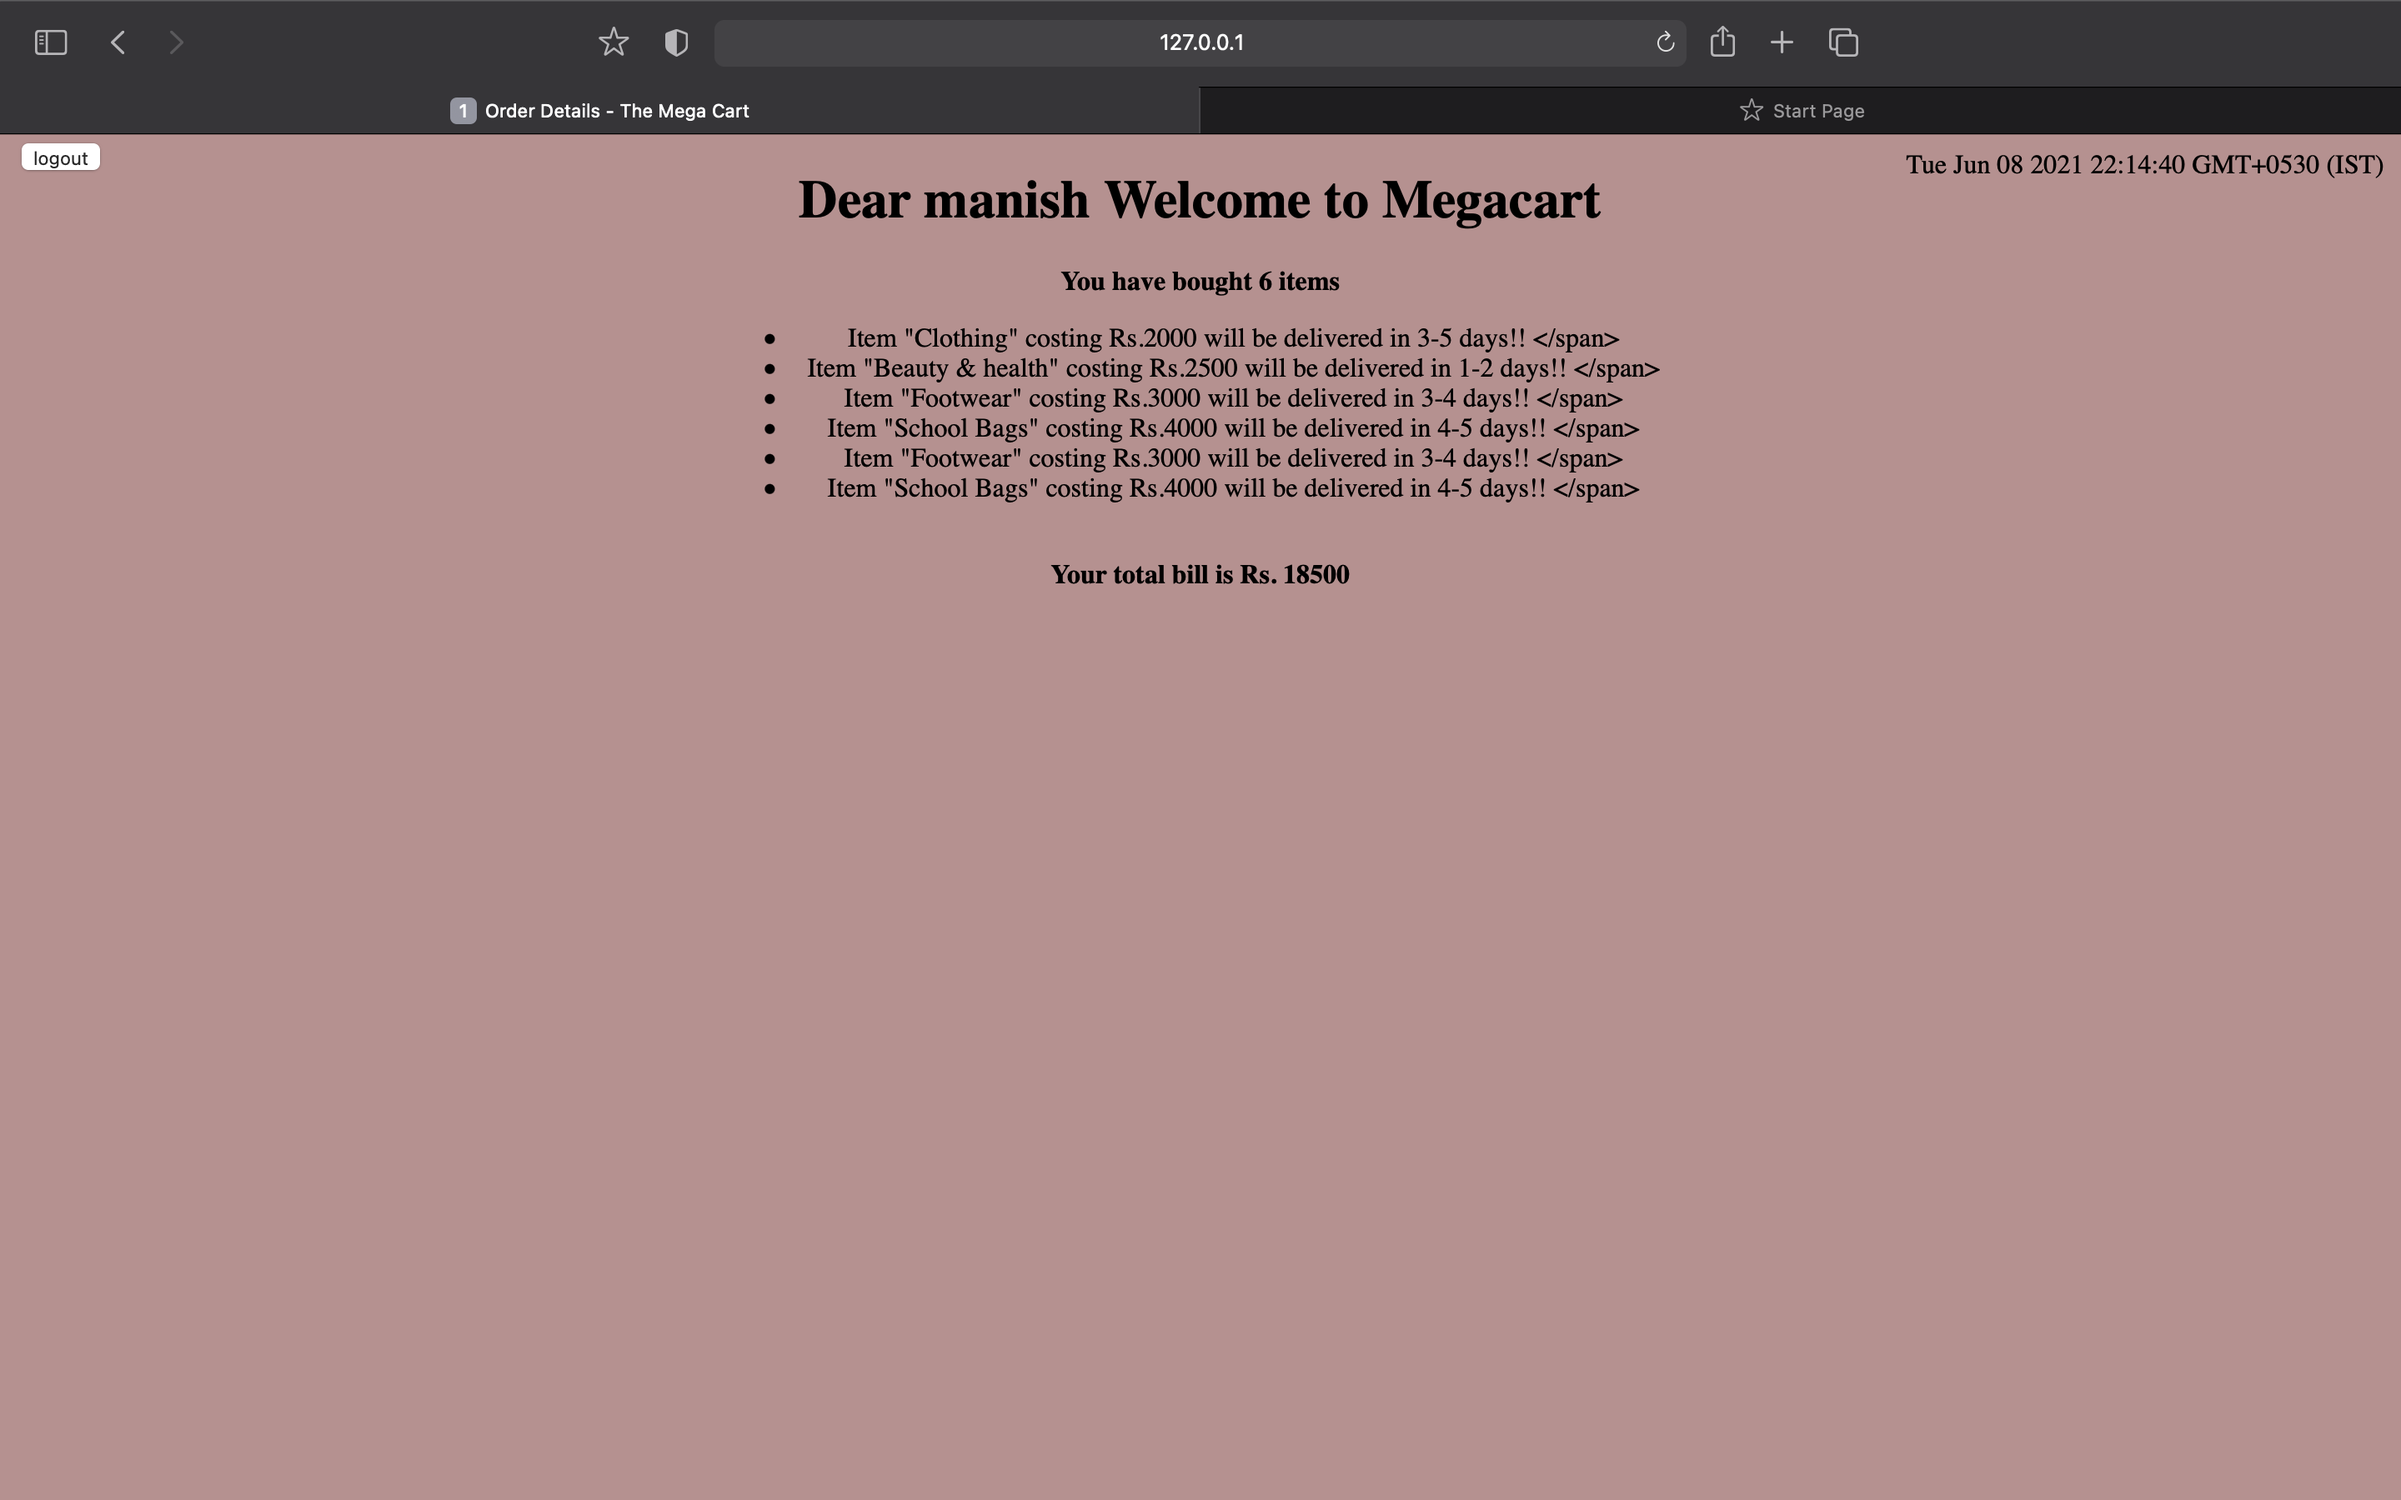
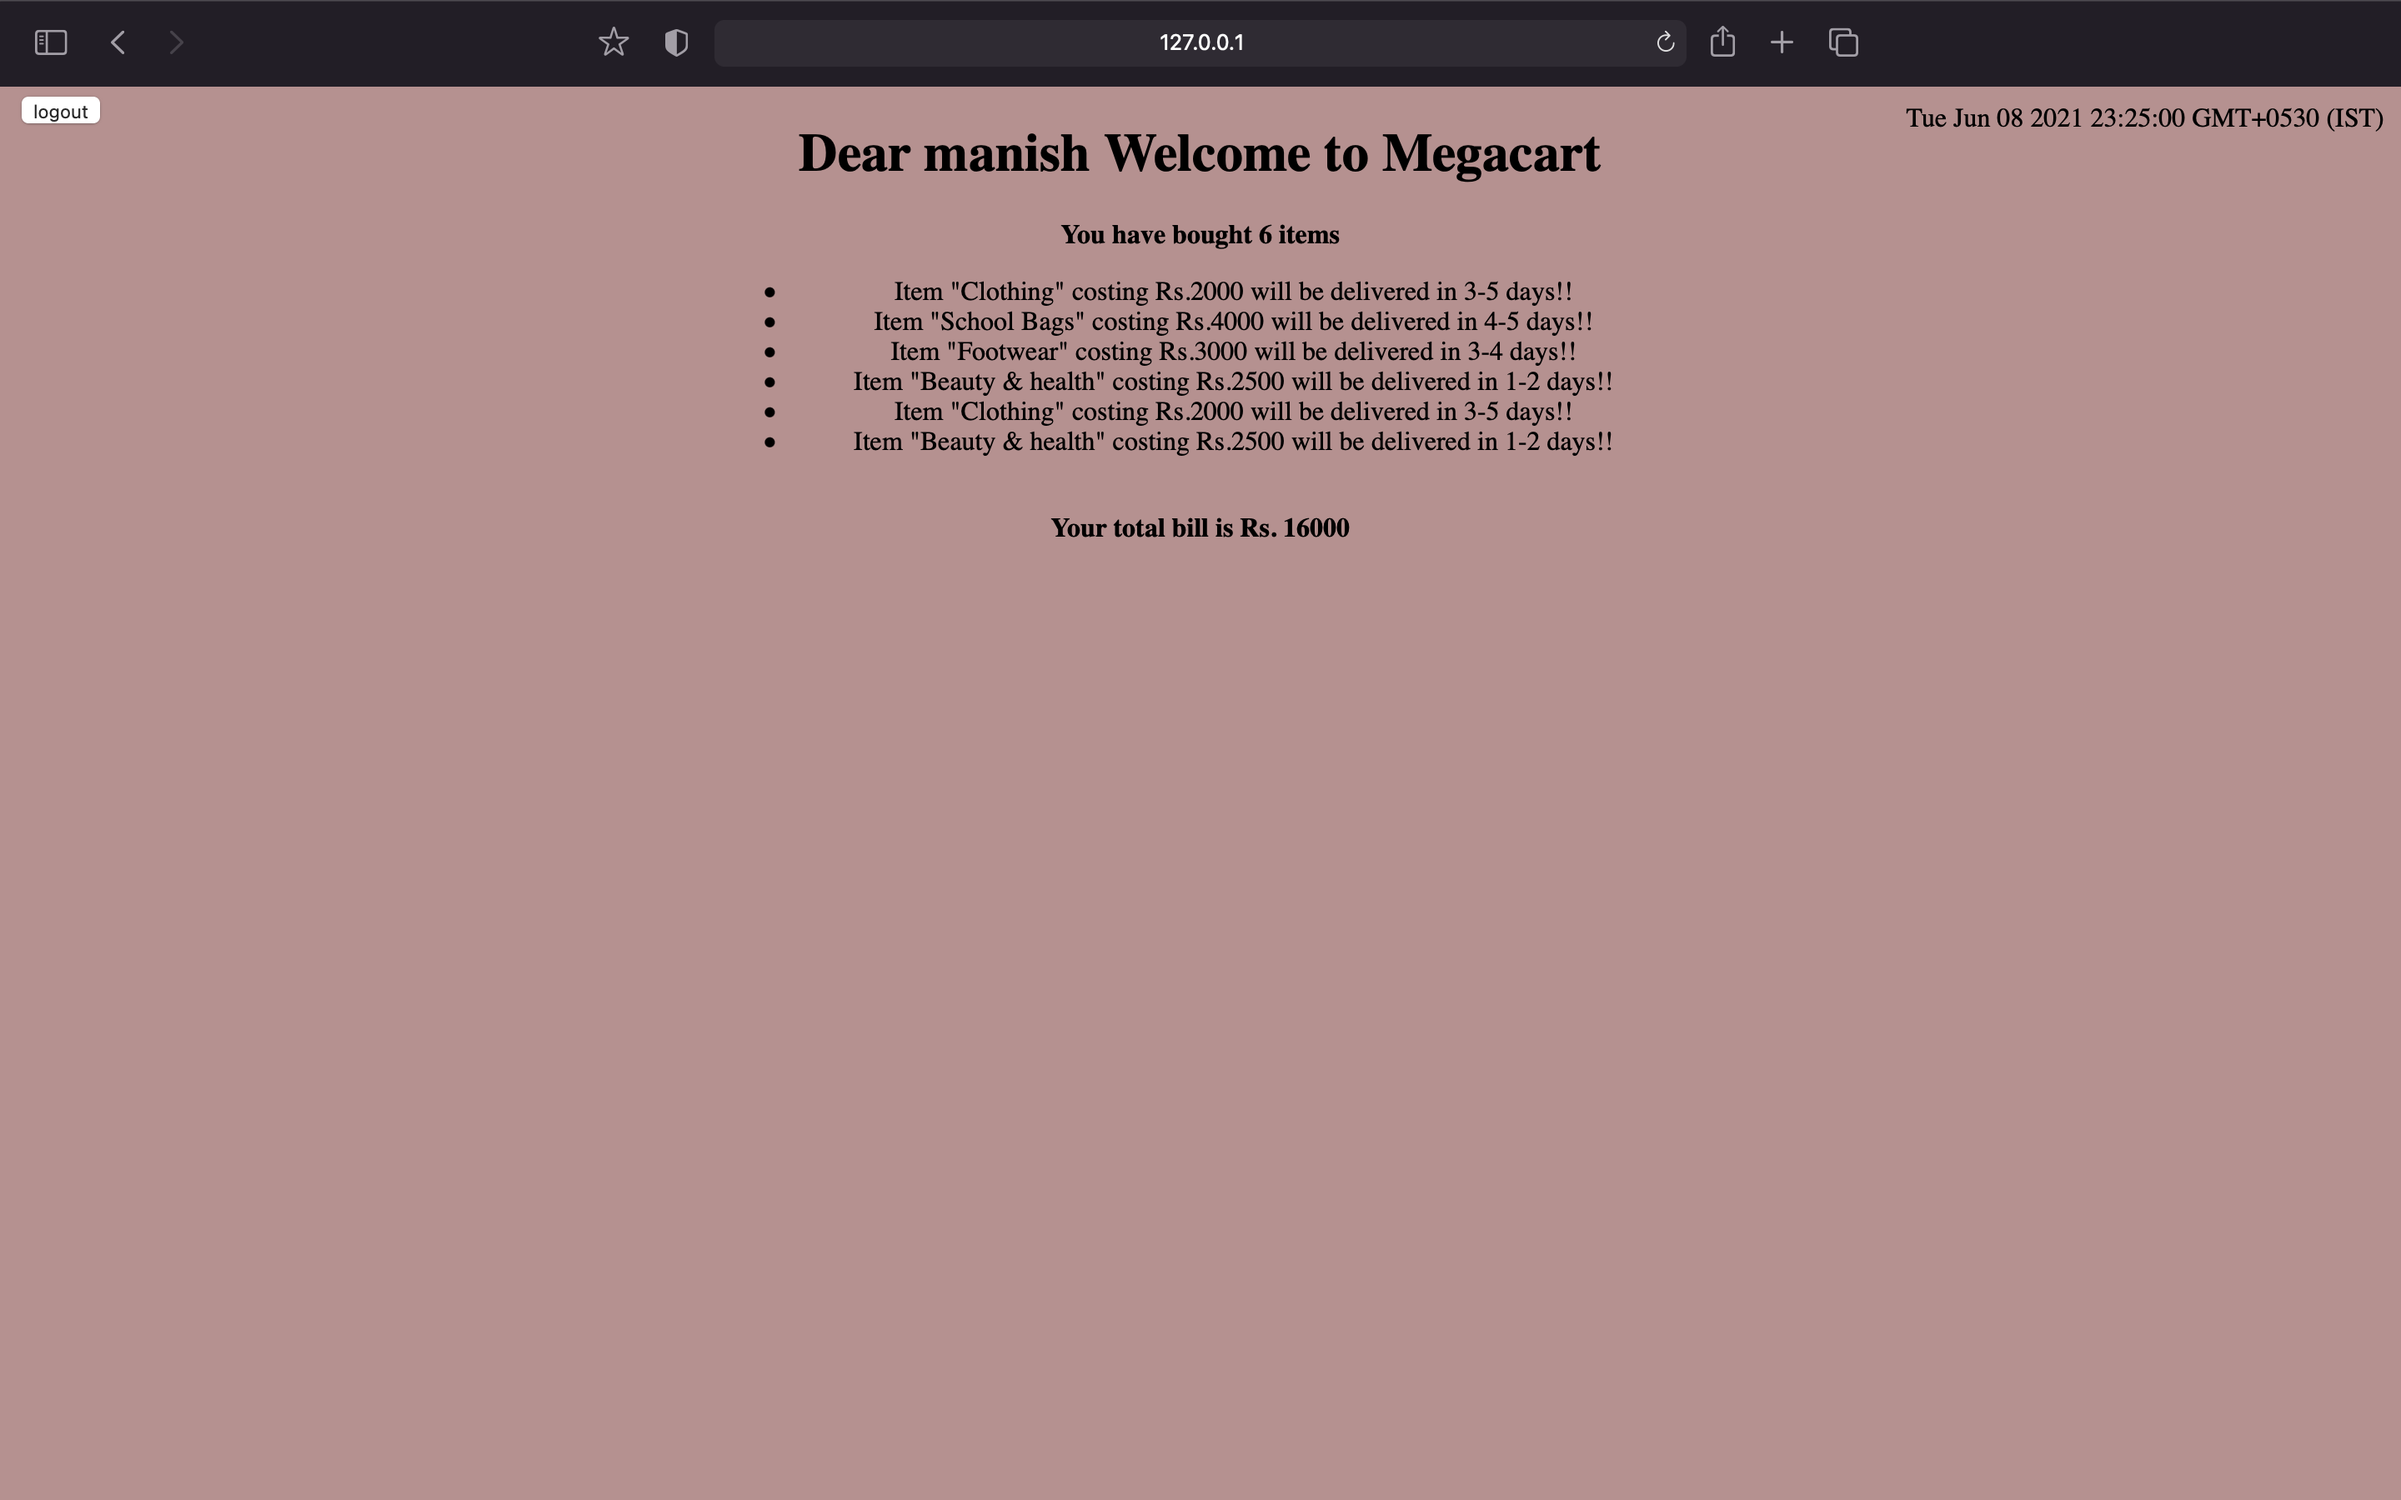
latest

Changed region(s): [[0.0, 0.0311, 1.0, 0.4044]]

diff --git a/JS/buyItem.js b/JS/buyItem.js
@@ -17,7 +17,7 @@ window.onload=function(){
                 let listitem=document.createElement("li");
                 listitem.style.padding = 0;
                 let spanItem=document.createElement("span");
-                spanItem.innerText="Item \""+item.itemName+"\" costing Rs." +item.cost+" will be delivered in "+item.delivery+ "!! </span>";
+                spanItem.innerText="Item \""+item.itemName+"\" costing Rs." +item.cost+" will be delivered in "+item.delivery+ "!!";
                 listitem.appendChild(spanItem);
                 container.appendChild(listitem); 
                 cost+=item.cost;
